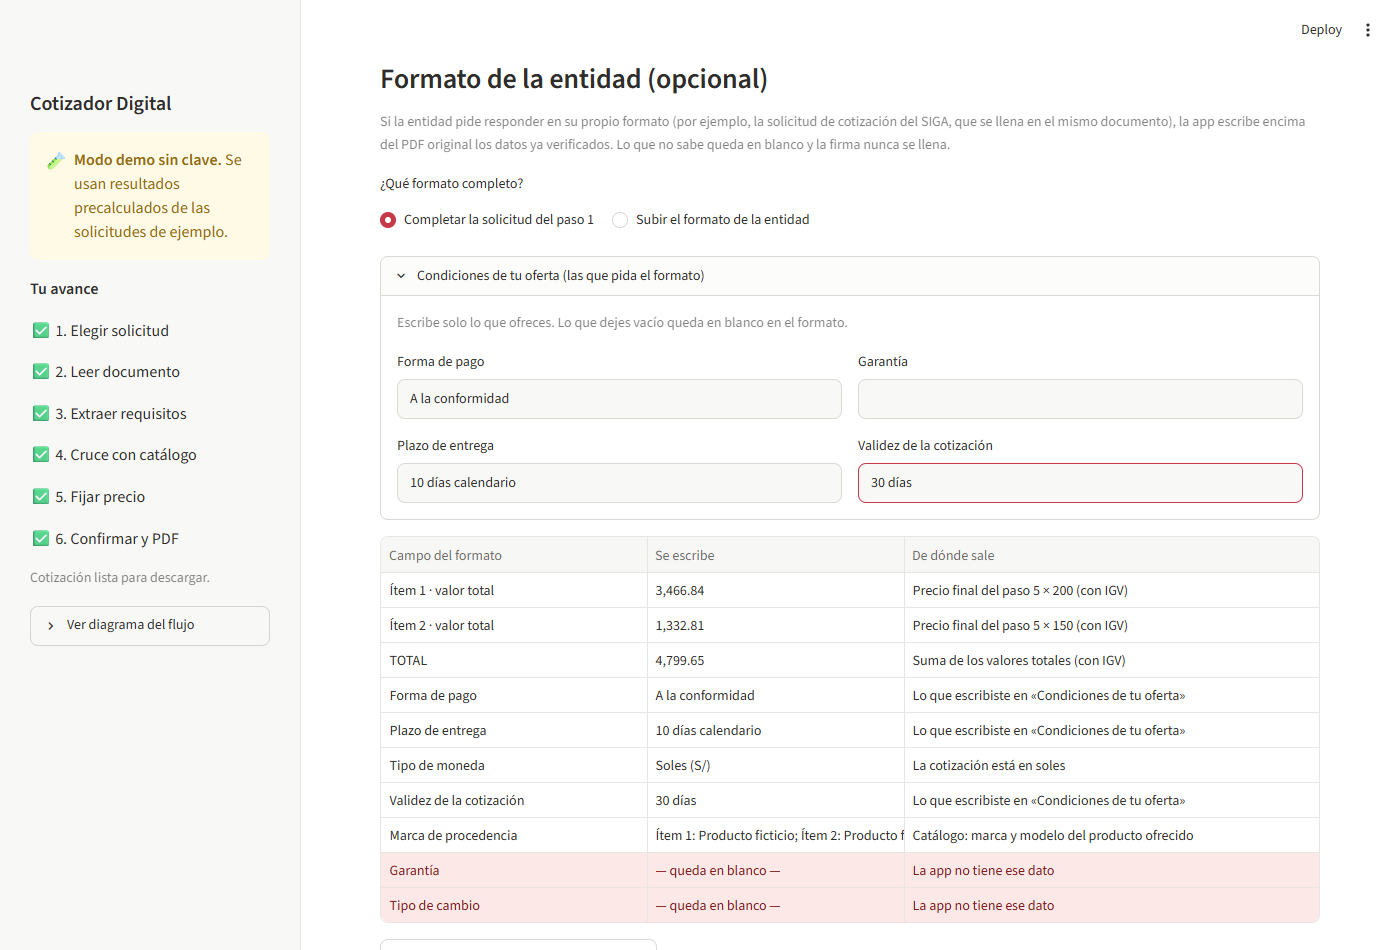
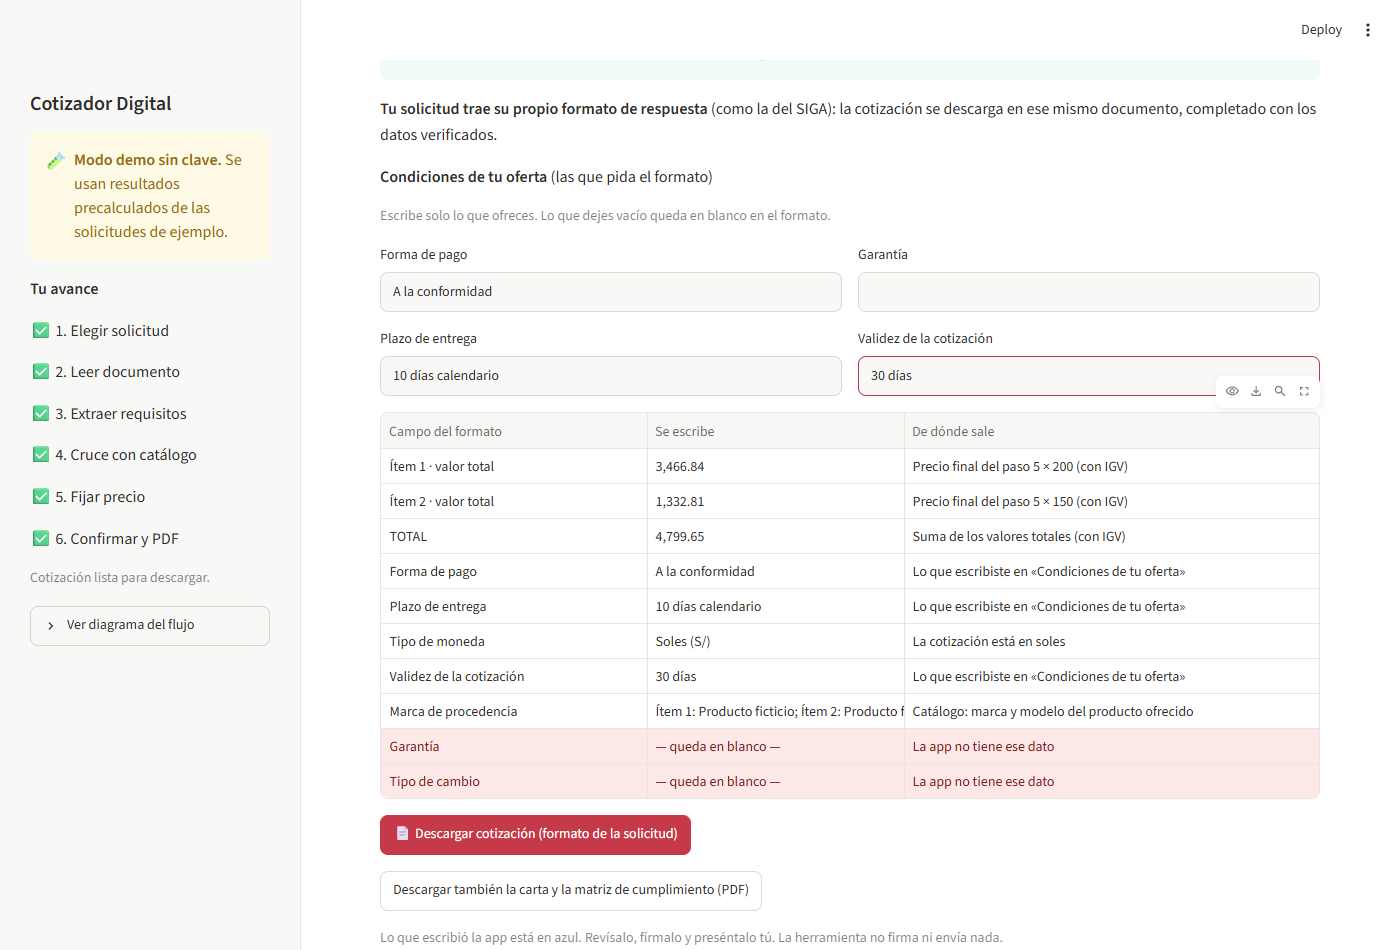
La cotizacion se descarga en el formato de la solicitud (SIGA)
Si la solicitud del paso 1 trae su propio formato de respuesta, el boton
principal "Descargar cotizacion" entrega esa misma solicitud completada;
la carta y la matriz quedan como descarga adicional. Si no, se mantiene el
PDF propio y la opcion de subir un formato aparte.

diff --git a/app/streamlit_app.py b/app/streamlit_app.py
@@ -7,6 +7,7 @@ Ejecutar desde la raíz del repo:
     streamlit run app/streamlit_app.py
 """
 
+import re
 import sys
 from pathlib import Path
 
@@ -55,7 +56,7 @@ load_dotenv(RAIZ / ".env")  # antes de importar el extractor: define la clave y 
 from ai.extractor import MODELO, ErrorExtraccion, extraer_requisitos, hay_clave, huella  # noqa: E402
 from backend.catalogo import (EXTENSIONES_CATALOGO, ErrorCatalogo, cargar_catalogo,  # noqa: E402
                               leer_catalogo_subido, plantilla_excel, ruta_catalogo)
-from backend.cruce import CUMPLE, NO_CUMPLE, ORDEN_ESTADO, REVISAR, cruzar  # noqa: E402
+from backend.cruce import CUMPLE, NO_CUMPLE, ORDEN_ESTADO, REVISAR, cruzar, normalizar  # noqa: E402
 from backend.ejemplo_sintetico import FOTO_PRODUCTO as FOTO_EJEMPLO  # noqa: E402
 from backend.formato_entidad import CondicionesOferta, anchos_paginas, leer_formato, llenar, planificar  # noqa: E402
 from backend.foto_producto import evaluar_foto, tiene_texto  # noqa: E402
@@ -424,47 +425,54 @@ def mostrar_confirmacion(solicitud, seleccion, precios, aplicar_igv, extraccion,
     st.success(f"Todo revisado. Total de la cotización: **S/ {total:,.2f}**"
                + (f" (incluye IGV de S/ {cotizacion.igv:,.2f})" if aplicar_igv else " (sin IGV)") + ".")
     nombre_pdf = "cotizacion_" + "".join(c if c.isalnum() else "_" for c in (solicitud.numero_solicitud or "solicitud"))
+    nombre_doc, contenido_doc, texto_doc = documento
+
+    # Si la solicitud trae su propio formato de respuesta (como la del SIGA), la cotización sale en ese formato
+    if contenido_doc is not None and parece_formato_de_respuesta(texto_doc):
+        with st.spinner("Preparando la cotización en el formato de la solicitud..."):
+            pdf_formato, paginas = leer_formato_entidad(nombre_doc, contenido_doc)
+        anchos = anchos_paginas(pdf_formato)
+        if planificar(paginas, anchos, cotizacion, CondicionesOferta()).reconocido:
+            st.markdown("**Tu solicitud trae su propio formato de respuesta** (como la del SIGA): la cotización se "
+                        "descarga en ese mismo documento, completado con los datos verificados.")
+            plan = planificar(paginas, anchos, cotizacion, pedir_condiciones())
+            mostrar_plan(plan)
+            st.download_button("📄 Descargar cotización (formato de la solicitud)", data=llenar(pdf_formato, plan),
+                               file_name=f"{nombre_pdf}.pdf", mime="application/pdf", type="primary", key="formato_pdf")
+            st.download_button("Descargar también la carta y la matriz de cumplimiento (PDF)",
+                               data=generar_pdf(cotizacion), file_name=f"{nombre_pdf}_carta_y_matriz.pdf",
+                               mime="application/pdf", key="pdf")
+            st.caption("Lo que escribió la app está en azul. Revísalo, fírmalo y preséntalo tú. "
+                       "La herramienta no firma ni envía nada.")
+            return True
+
     st.download_button("📄 Descargar cotización (PDF)", data=generar_pdf(cotizacion),
                        file_name=f"{nombre_pdf}.pdf", mime="application/pdf", type="primary", key="pdf")
     st.caption("Revisa el PDF, fírmalo y preséntalo tú. La herramienta no firma ni envía nada.")
-    mostrar_formato_entidad(cotizacion, documento)
+    mostrar_formato_subido(cotizacion)
     return True
 
 
-def mostrar_formato_entidad(cotizacion, documento) -> None:
-    """Paso 6 (opción): completar el formato de la entidad, escribiendo encima del PDF original."""
-    st.subheader("Formato de la entidad (opcional)")
-    st.caption("Si la entidad pide responder en su propio formato (por ejemplo, la solicitud de cotización del "
-               "SIGA, que se llena en el mismo documento), la app escribe encima del PDF original los datos ya "
-               "verificados. Lo que no sabe queda en blanco y la firma nunca se llena.")
-    nombre_doc, contenido_doc = documento
-    opciones = (["Completar la solicitud del paso 1"] if contenido_doc is not None else []) +         ["Subir el formato de la entidad"]
-    origen = st.radio("¿Qué formato completo?", opciones, horizontal=True, key="origen_formato")
-    if origen == "Subir el formato de la entidad":
-        archivo = st.file_uploader("Formato de la entidad (PDF o foto)", type=["pdf", "png", "jpg", "jpeg"],
-                                   key="formato_subido")
-        if archivo is None:
-            return
-        nombre, contenido = archivo.name, archivo.getvalue()
-    else:
-        nombre, contenido = nombre_doc, contenido_doc
+def parece_formato_de_respuesta(texto: str) -> bool:
+    """La solicitud tiene una columna para que el proveedor escriba sus precios (p. ej., VALOR TOTAL del SIGA)."""
+    texto = normalizar(texto or "")
+    return bool(re.search(r"\b(valor|precio|importe|monto)\b", texto) and re.search(r"\btotal\b", texto))
 
-    with st.expander("Condiciones de tu oferta (las que pida el formato)", expanded=True):
-        st.caption("Escribe solo lo que ofreces. Lo que dejes vacío queda en blanco en el formato.")
-        c1, c2 = st.columns(2)
-        condiciones = CondicionesOferta(
-            forma_pago=c1.text_input("Forma de pago", key="cond_pago", placeholder="Ej.: a la conformidad"),
-            garantia=c2.text_input("Garantía", key="cond_garantia"),
-            plazo_entrega=c1.text_input("Plazo de entrega", key="cond_plazo", placeholder="Ej.: 10 días calendario"),
-            validez=c2.text_input("Validez de la cotización", key="cond_validez", placeholder="Ej.: 30 días"),
-        )
-    with st.spinner("Leyendo el formato (si es escaneado, con OCR)..."):
-        pdf_formato, paginas = leer_formato_entidad(nombre, contenido)
-    plan = planificar(paginas, anchos_paginas(pdf_formato), cotizacion, condiciones)
-    if not plan.reconocido:
-        st.warning("No reconocí la tabla de precios de este formato (busco una columna «VALOR TOTAL», «PRECIO "
-                   "TOTAL» o «IMPORTE TOTAL» y la descripción de cada ítem). Presenta el PDF de la cotización.")
-        return
+
+def pedir_condiciones() -> CondicionesOferta:
+    st.markdown("**Condiciones de tu oferta** (las que pida el formato)")
+    st.caption("Escribe solo lo que ofreces. Lo que dejes vacío queda en blanco en el formato.")
+    c1, c2 = st.columns(2)
+    return CondicionesOferta(
+        forma_pago=c1.text_input("Forma de pago", key="cond_pago", placeholder="Ej.: a la conformidad"),
+        garantia=c2.text_input("Garantía", key="cond_garantia"),
+        plazo_entrega=c1.text_input("Plazo de entrega", key="cond_plazo", placeholder="Ej.: 10 días calendario"),
+        validez=c2.text_input("Validez de la cotización", key="cond_validez", placeholder="Ej.: 30 días"),
+    )
+
+
+def mostrar_plan(plan) -> None:
+    """Vista previa: qué se escribirá en el formato y de dónde sale; lo que queda en blanco, en rojo."""
     for aviso in plan.avisos:
         st.warning(aviso)
     filas = [{"Campo del formato": e.campo, "Se escribe": e.texto, "De dónde sale": e.fuente}
@@ -477,9 +485,28 @@ def mostrar_formato_entidad(cotizacion, documento) -> None:
                                    axis=1), hide_index=True, width="stretch")
     for falta in plan.no_ubicados:
         st.info(falta)
-    st.download_button("📝 Descargar el formato completado (PDF)", data=llenar(pdf_formato, plan),
-                       file_name=f"{Path(nombre).stem}_completado.pdf", mime="application/pdf", key="formato_pdf")
-    st.caption("Lo que escribió la app está en azul. Revísalo, fírmalo y preséntalo tú.")
+
+
+def mostrar_formato_subido(cotizacion) -> None:
+    """Paso 6 (opción): la entidad mandó un formato aparte; se completa escribiendo encima del PDF original."""
+    with st.expander("¿La entidad te mandó su propio formato de cotización? Súbelo y lo completo",
+                     expanded=st.session_state.get("formato_subido") is not None):
+        archivo = st.file_uploader("Formato de la entidad (PDF o foto)", type=["pdf", "png", "jpg", "jpeg"],
+                                   key="formato_subido")
+        if archivo is None:
+            return
+        with st.spinner("Leyendo el formato (si es escaneado, con OCR)..."):
+            pdf_formato, paginas = leer_formato_entidad(archivo.name, archivo.getvalue())
+        plan = planificar(paginas, anchos_paginas(pdf_formato), cotizacion, pedir_condiciones())
+        if not plan.reconocido:
+            st.warning("No reconocí la tabla de precios de este formato (busco una columna «VALOR TOTAL», «PRECIO "
+                       "TOTAL» o «IMPORTE TOTAL» y la descripción de cada ítem). Presenta el PDF de la cotización.")
+            return
+        mostrar_plan(plan)
+        st.download_button("📝 Descargar el formato completado (PDF)", data=llenar(pdf_formato, plan),
+                           file_name=f"{Path(archivo.name).stem}_completado.pdf", mime="application/pdf",
+                           key="formato_pdf")
+        st.caption("Lo que escribió la app está en azul. Revísalo, fírmalo y preséntalo tú.")
 
 
 def mostrar_avance(contenedor, hechos: list[bool]) -> None:
@@ -662,7 +689,8 @@ if resultado is not None:
     seleccion = mostrar_cruce(solicitud)
     if seleccion:
         precios, aplicar_igv = mostrar_precio(seleccion)
-        pdf_listo = mostrar_confirmacion(solicitud, seleccion, precios, aplicar_igv, resultado, (nombre, contenido))
+        pdf_listo = mostrar_confirmacion(solicitud, seleccion, precios, aplicar_igv, resultado,
+                                         (nombre, contenido, lectura.texto if lectura else ""))
 
 mostrar_avance(avance, [
     contenido is not None,

diff --git a/tests/test_app.py b/tests/test_app.py
@@ -70,6 +70,8 @@ def test_pdf_bloqueado_hasta_ingresar_precio_y_confirmar(app):
     assert not app.exception
     assert not any("El PDF todavía no se puede generar" in e.value for e in app.error)
     assert any("Todo revisado" in s.value for s in app.success)
+    # Solicitud sin formato de respuesta: se descarga el PDF propio de la app, no un formato
+    assert not any("Campo del formato" in d.value.columns for d in app.dataframe)
 
 
 @pytest.mark.lento
@@ -133,10 +135,11 @@ def test_completa_la_solicitud_siga_del_paso_1(app):
     app.number_input(key="margen").set_value(20.0).run()
     app.number_input(key="flete").set_value(50.0).run()
     app.checkbox(key="confirmo_2_EJ-ARC-080_material").check().run()
-    assert not any(h.value.startswith("Formato de la entidad") for h in app.subheader)  # aún bloqueado
+    assert not any("Campo del formato" in d.value.columns for d in app.dataframe)  # aún bloqueado
 
-    app.checkbox(key="responsable").check().run(timeout=240)  # habilita el formato (OCR del formato)
+    app.checkbox(key="responsable").check().run(timeout=240)  # habilita la descarga (OCR del formato)
     assert not app.exception
+    assert any("trae su propio formato de respuesta" in m.value for m in app.markdown)
     tabla = next(d.value for d in app.dataframe if "Campo del formato" in d.value.columns)
     campos = tabla["Campo del formato"].tolist()
     assert {"Ítem 1 · valor total", "Ítem 2 · valor total", "TOTAL"} <= set(campos)

diff --git a/CLAUDE.md b/CLAUDE.md
@@ -98,7 +98,7 @@ Opcional: script de evaluación (sesión 12) del % de requisitos bien extraídos
 
 **Bien fuera del catálogo con foto:** `backend/foto_producto.py` (OCR + reglas, sin LLM: funciona sin clave y no inventa). Por requisito busca primero en las líneas que nombran el atributo ("Lomo ancho: 80 mm" para "ancho de lomo"); números con unidad compatible (conversión de `backend.cruce`, alias como gr/m2 → g/m2); textos por coincidencia o lo que sigue a ":". Regla de oro: lo no leído → revisar; dato en una línea que no nombra el atributo → revisar; texto distinto → revisar (no "no cumple", el OCR/redacción varían); número que no alcanza → no cumple. La fuente es «la línea leída». En la app: un expander por ítem en el paso 4 (se mantiene abierto si hay foto en uso), costo y stock sin valor por defecto; recién con ambos el producto `FOTO-<ítem>` entra al selector. Foto de ejemplo: `data/fotos_productos/ejemplo_etiqueta_archivador.png` (`generar_foto_producto()` en `backend/ejemplo_sintetico.py`), sin material a propósito. Posible mejora con clave: modelo con visión para etiquetas sin "atributo: valor".
 
-**Formato de la entidad (2026-11-10):** en el SIGA, la propia solicitud de cotización es el formato de respuesta (el proveedor llena VALOR TOTAL por ítem, TOTAL y condiciones de compra). `backend/formato_entidad.py`: `leer_formato()` (pdfplumber si es digital; si es escaneado/foto, `ai.ocr.fragmentos_imagen()` con cajas a 200 dpi), `planificar()` (columna «VALOR/PRECIO/IMPORTE TOTAL», incluso en dos líneas; filas por descripción del ítem; casilla TOTAL; etiquetas de condiciones) y `llenar()` (capa de texto azul con fpdf2 + `pypdf` 7: `PdfWriter(clone_from=...)` y `merge_page`). Solo datos verificados: precios del paso 5 (con IGV si está marcado), marca del catálogo, moneda soles y lo que el proveedor escribe en «Condiciones de tu oferta»; lo demás queda en blanco; nunca la firma. Se habilita solo con la cotización confirmada. Ejemplo: `data/solicitudes/ejemplo_siga_escaneado.pdf` (+ `data/precalculado/ejemplo_siga.json`), generado por `generar_siga_escaneado()`. Ivette aportó un documento real (Gobierno Regional) solo como referencia de diseño (opción A): está en `data/cache/formatos/`, no se usa ni se sube. NO generar desde cero un formato con los datos de la entidad: se escribe sobre el original que emitió.
+**Formato de la entidad (2026-11-10):** en el SIGA, la propia solicitud de cotización es el formato de respuesta (el proveedor llena VALOR TOTAL por ítem, TOTAL y condiciones de compra). `backend/formato_entidad.py`: `leer_formato()` (pdfplumber si es digital; si es escaneado/foto, `ai.ocr.fragmentos_imagen()` con cajas a 200 dpi), `planificar()` (columna «VALOR/PRECIO/IMPORTE TOTAL», incluso en dos líneas; filas por descripción del ítem; casilla TOTAL; etiquetas de condiciones) y `llenar()` (capa de texto azul con fpdf2 + `pypdf` 7: `PdfWriter(clone_from=...)` y `merge_page`). Solo datos verificados: precios del paso 5 (con IGV si está marcado), marca del catálogo, moneda soles y lo que el proveedor escribe en «Condiciones de tu oferta»; lo demás queda en blanco; nunca la firma. Se habilita solo con la cotización confirmada. **Desde el 2026-11-10 (pedido de Ivette):** si la solicitud del paso 1 tiene columna de precios para el proveedor (`parece_formato_de_respuesta()` + `planificar().reconocido`), el botón principal «Descargar cotización» entrega ESE formato completado y la carta + matriz queda como descarga secundaria; si no, el PDF propio sigue siendo el principal y hay un expander para subir un formato aparte. Ejemplo: `data/solicitudes/ejemplo_siga_escaneado.pdf` (+ `data/precalculado/ejemplo_siga.json`), generado por `generar_siga_escaneado()`. Ivette aportó un documento real (Gobierno Regional) solo como referencia de diseño (opción A): está en `data/cache/formatos/`, no se usa ni se sube. NO generar desde cero un formato con los datos de la entidad: se escribe sobre el original que emitió.
 
 **Recarga de módulos en Streamlit Cloud:** Streamlit solo vuelve a ejecutar `app/streamlit_app.py`; los módulos de `ai/` y `backend/` quedaban viejos tras cada push (ImportError hasta reiniciar). `_descargar_modulos_cambiados()` al inicio de la app los descarga si cambió su fecha de modificación (verificado con AppTest).
 

diff --git a/README.md b/README.md
@@ -43,7 +43,7 @@ Todo se hace a mano, con Word y Excel. **Muchas solicitudes quedan sin responder
 | 3. Extraer | Entidad, objeto, ítems, requisitos técnicos (atributo, operador, valor, unidad), plazo, lugar, fecha límite y anexos, **con la cita y la página de cada requisito** | LLM con salida estructurada + Pydantic |
 | 4. Cruzar | Cada requisito contra el catálogo del proveedor, **que puede subir su propio catálogo** (CSV o Excel, con plantilla descargable): ✅ cumple, ⚠ revisar o ❌ no cumple, con la fuente de cada dato. Ordena los productos por estado, stock y costo. **Si el bien no está en el catálogo**, el proveedor sube la foto de su etiqueta: el OCR lee lo impreso y se verifica igual, y lo que no se lee queda en rojo | pandas, PaddleOCR |
 | 5. Precio | Costo + flete + margen, comparado con lo que pagó el Estado: mínimo, mediana, máximo y número de órdenes, precio sugerido y semáforo | plotly |
-| 6. Confirmar | Cada dato en rojo se confirma uno por uno, más la casilla **"Revisé y me hago responsable"**. Recién entonces se genera el PDF: carta, cuadro de precios y matriz de cumplimiento. **Si la entidad pide su propio formato** (por ejemplo, la solicitud de cotización del SIGA, que se responde en el mismo documento), la app escribe encima del PDF original el valor total de cada ítem, el TOTAL y las condiciones de compra; lo que no sabe queda en blanco | fpdf2, pypdf, PaddleOCR |
+| 6. Confirmar | Cada dato en rojo se confirma uno por uno, más la casilla **"Revisé y me hago responsable"**. Recién entonces se genera el PDF: carta, cuadro de precios y matriz de cumplimiento. **Si la solicitud trae su propio formato de respuesta** (como la solicitud de cotización del SIGA), **la cotización se descarga en ese mismo documento**: la app escribe encima del PDF original el valor total de cada ítem, el TOTAL y las condiciones de compra, y lo que no sabe queda en blanco. La carta y la matriz quedan como descarga adicional. Si la entidad mandó un formato aparte, se puede subir | fpdf2, pypdf, PaddleOCR |
 
 **Insight:** el cuello de botella no es la falta de producto, sino el **trabajo de verificación**: leer, contrastar y documentar. Por eso la herramienta no "decide" por el proveedor. Hace el trabajo pesado y muestra la fuente de cada dato. Lo que no tiene fuente queda en rojo, y la responsabilidad final (revisar y firmar) sigue siendo del proveedor.
 
@@ -87,7 +87,7 @@ La demo funciona **sin clave de API** (modo demo): usa el resultado precalculado
 
 ![Subir el catálogo propio](docs/capturas/06_subir_catalogo.png)
 
-**El formato de la entidad, completado:** con una solicitud con formato del SIGA (EJEMPLO SINTÉTICO, escaneada), la app muestra qué escribirá y de dónde sale cada dato, y devuelve el mismo PDF con los valores en azul. Garantía y tipo de cambio quedan en blanco porque el proveedor no los indicó.
+**La cotización en el formato de la solicitud:** con una solicitud con formato del SIGA (EJEMPLO SINTÉTICO, escaneada), "Descargar cotización" entrega esa misma solicitud completada. Antes, la app muestra qué escribirá y de dónde sale cada dato; los valores van en azul. Garantía y tipo de cambio quedan en blanco porque el proveedor no los indicó.
 
 | Vista previa en la app | Formato completado |
 |---|---|

diff --git a/docs/agente.md b/docs/agente.md
@@ -23,3 +23,4 @@ El encargo original está en [`prompt_inicial.md`](prompt_inicial.md).
 | 2026-11-10 | Catálogo propio del proveedor | Explicó que la app no tenía dónde subir el catálogo (lo leía de un archivo del proyecto) y propuso el diseño. En el paso 4 agregó la opción «Subir mi catálogo» (CSV o Excel) con plantilla descargable en Excel con instrucciones, validación con el número de fila del error y uso solo durante la sesión, sin guardarlo. Corrigió un error propio en la plantilla (columnas corridas) que detectó la prueba. 9 pruebas nuevas (89 en total) y la captura 06. | Preguntó dónde sube el proveedor su catálogo y aprobó el diseño propuesto. |
 | 2026-11-10 | README: revisión de las 9 partes | Revisó el README contra la consigna (9 partes) y separó lo completo de lo pendiente. Reescribió el «Why now» comparando fines de 2023 con hoy, solo con fechas verificadas (notas de versión de la API de Claude, precios oficiales, historial de PaddleOCR en PyPI y diccionario de datos de Perú Compras); quitó una afirmación propia que no tenía fuente. Agregó quién paga (la mype proveedora) y actualizó el resumen de «Qué hizo el agente». | Pidió verificar las 9 partes y aprobó los 3 cambios. Quedan pendientes suyos: historia de founder, 3 conversaciones con cifras, contenido de los planes y costo en tokens con su clave. |
 | 2026-11-10 | Formato de la entidad | Revisó el documento real que aportó Ivette (solicitud SIGA del Gobierno Regional, escaneada) y, antes de usarlo, le consultó porque parecía un documento interno; ella eligió usarlo solo como referencia. Descubrió que en el SIGA la solicitud es el propio formato de respuesta. Construyó una réplica de EJEMPLO SINTÉTICO (`ejemplo_siga_escaneado.pdf` + precalculado), `backend/formato_entidad.py` (ubica campos con pdfplumber u OCR con posiciones y escribe encima del PDF original con pypdf) y la sección del paso 6 con «Condiciones de tu oferta». Agregó la recarga automática de módulos para que la app pública no falle tras cada actualización. 9 pruebas nuevas (98 en total) y capturas 07 y 08. | Propuso que el proveedor suba el formato de la entidad y que la app lo complete; indicó que suelen venir en PDF y aportó un formato real como referencia (opción A: no entra al proyecto). |
+| 2026-11-10 | Cotización en el formato de la solicitud | Cuando la solicitud del paso 1 trae su propio formato de respuesta (SIGA), el botón principal «Descargar cotización» entrega esa misma solicitud completada; la carta y la matriz quedan como descarga adicional. Si no, se mantiene el PDF propio y la opción de subir un formato aparte. Explicó que no generará un documento con apariencia de SIGA para solicitudes que no lo son, porque parecería emitido por la entidad. Pruebas y captura 07 actualizadas. | Pidió que la descarga de la cotización sea el formato de solicitud de cotización del SIGA. |
